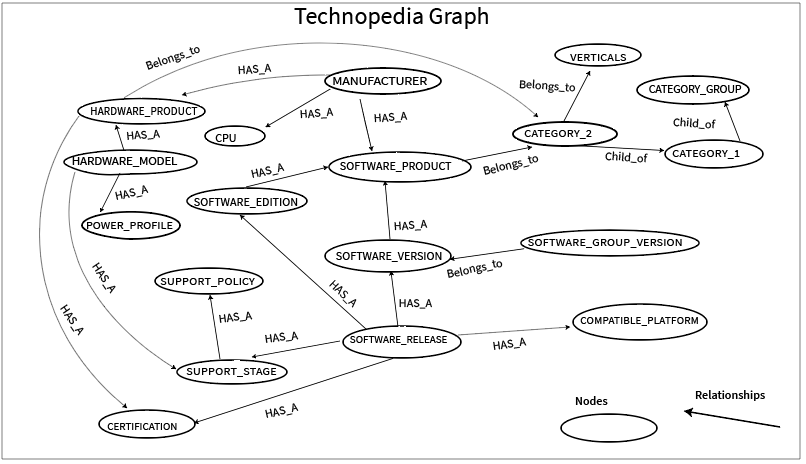
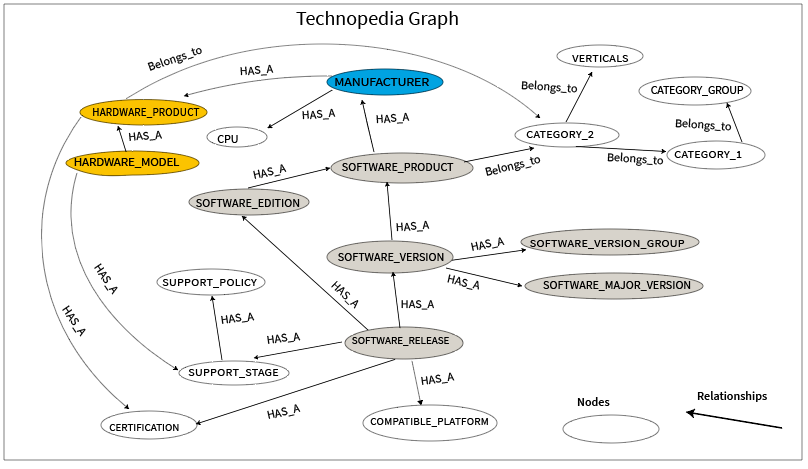
updates

diff --git a/_api/hw_model_2.5.md b/_api/hw_model_2.5.md
@@ -1,6 +1,6 @@
 ---
 title: Hardware Model
-position: 2.5
+position: 2.3
 type: 
 description: The hardware model node defines information about the model, such as dimensions and other general specifications 
 content_markdown: |-
@@ -11,9 +11,9 @@ content_markdown: |-
   <br>
 
   <br> 
-    
+  The following diagram shows hardware nodes and related software nodes.  
   
-  ![API Image](/images/apiEcon.PNG){:class="img-responsive"} <br>
+  ![API Image](/images/hard_soft.png){:class="img-responsive"} <br>
   
   ###### Returns a specific hardware item from the Technopedia database.<br> 
   ![API Image](/images/tid.png){:class="img-responsive"} <br>

diff --git a/_api/sw_other2.3.md b/_api/sw_other2.3.md
@@ -1,6 +1,6 @@
 ---
 title: Other CAT
-position: 2.3
+position: 3.9
 type: 
 description: >-
   Create Query for example query. In this example, we will pull data from
